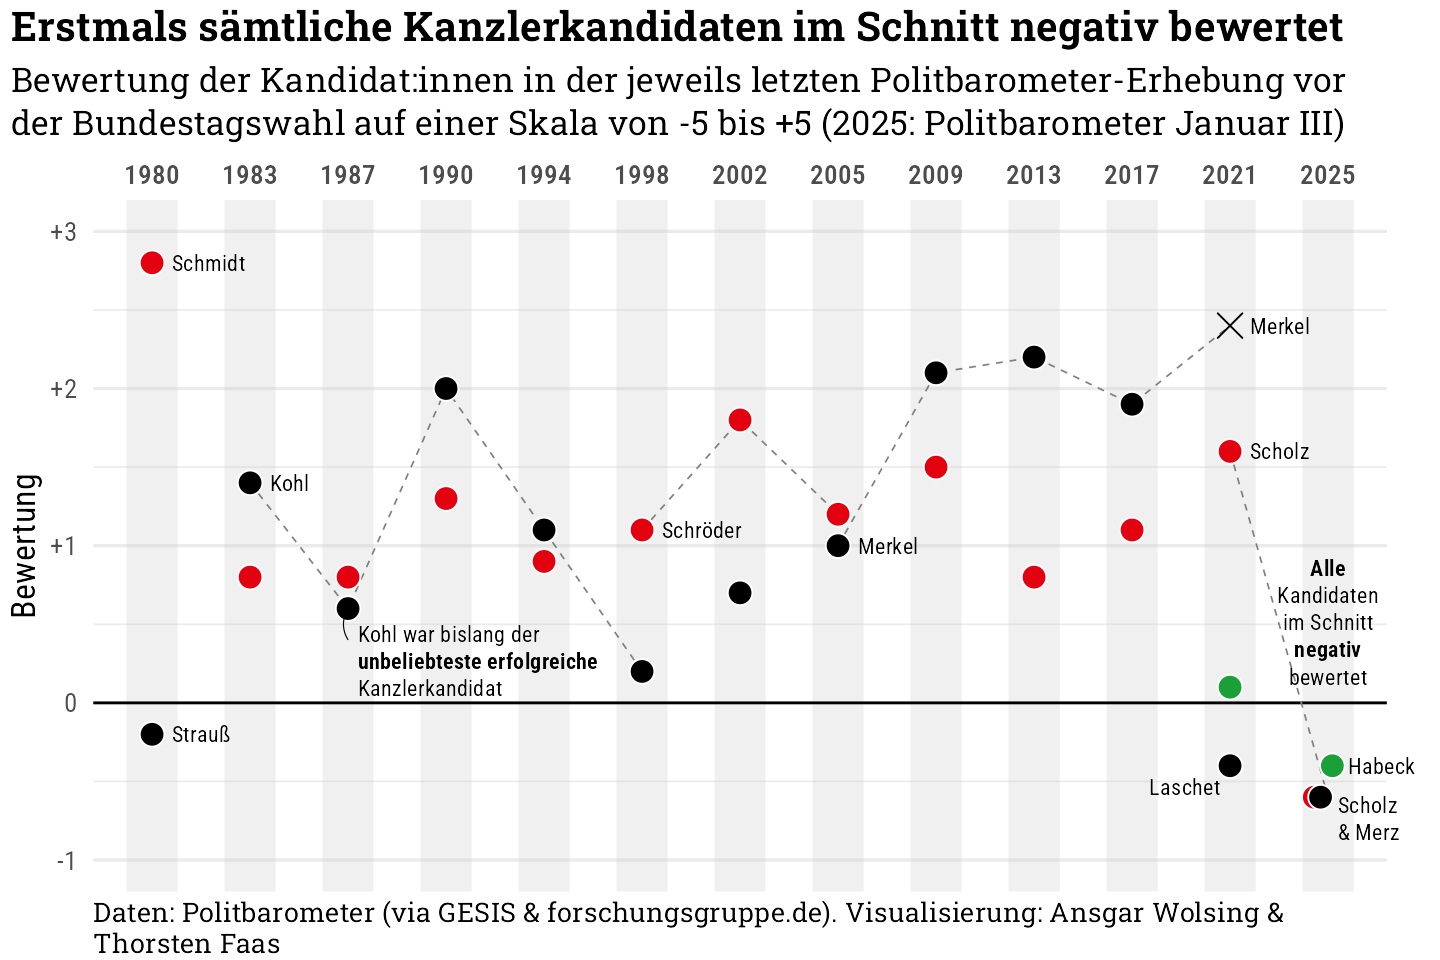
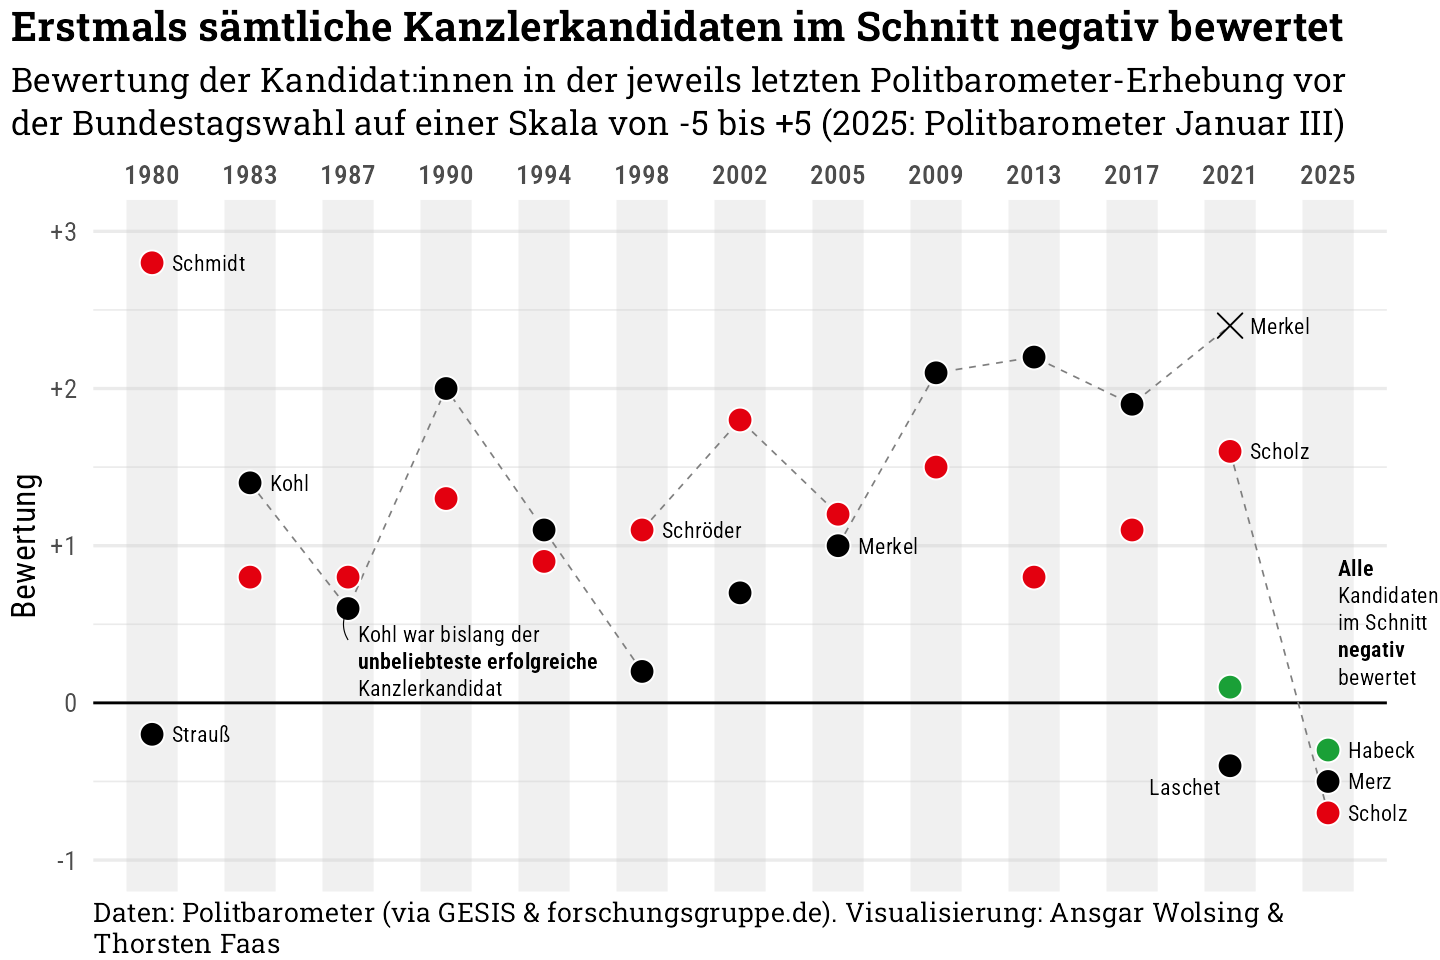
Anpassung Politbarometer Feb I

Changed region(s): [[0.875, 0.5625, 1.0, 0.7188], [0.9062, 0.75, 1.0, 0.875]]

diff --git a/06-tv-duell/05-tv-duell.html b/06-tv-duell/05-tv-duell.html
@@ -174,68 +174,63 @@ pre > code.sourceCode > span > a:first-child::before { text-decoration: underlin
 <span id="cb4-10"><a href="#cb4-10" aria-hidden="true" tabindex="-1"></a>    <span class="at">linetype =</span> <span class="st">"dashed"</span>, <span class="at">linewidth =</span> <span class="fl">0.3</span>, <span class="at">col =</span> <span class="st">"grey50"</span></span>
 <span id="cb4-11"><a href="#cb4-11" aria-hidden="true" tabindex="-1"></a>  ) <span class="sc">+</span></span>
 <span id="cb4-12"><a href="#cb4-12" aria-hidden="true" tabindex="-1"></a>  <span class="fu">geom_point</span>(</span>
-<span id="cb4-13"><a href="#cb4-13" aria-hidden="true" tabindex="-1"></a>    <span class="at">data =</span> <span class="sc">~</span><span class="fu">filter</span>(., wahl <span class="sc">&lt;</span> <span class="dv">2025</span>),</span>
-<span id="cb4-14"><a href="#cb4-14" aria-hidden="true" tabindex="-1"></a>    <span class="fu">aes</span>(</span>
-<span id="cb4-15"><a href="#cb4-15" aria-hidden="true" tabindex="-1"></a>      <span class="at">shape =</span> <span class="fu">ifelse</span>(kandidat <span class="sc">==</span> <span class="st">"Merkel"</span> <span class="sc">&amp;</span> wahl <span class="sc">==</span> <span class="st">"2021"</span>, <span class="dv">4</span>, <span class="dv">21</span>),</span>
-<span id="cb4-16"><a href="#cb4-16" aria-hidden="true" tabindex="-1"></a>      <span class="at">col =</span> <span class="fu">ifelse</span>(kandidat <span class="sc">==</span> <span class="st">"Merkel"</span> <span class="sc">&amp;</span> wahl <span class="sc">==</span> <span class="st">"2021"</span>, <span class="st">"black"</span>, <span class="st">"white"</span>)),</span>
-<span id="cb4-17"><a href="#cb4-17" aria-hidden="true" tabindex="-1"></a>    <span class="at">size =</span> <span class="dv">4</span>) <span class="sc">+</span></span>
-<span id="cb4-18"><a href="#cb4-18" aria-hidden="true" tabindex="-1"></a>  <span class="fu">geom_point</span>(</span>
-<span id="cb4-19"><a href="#cb4-19" aria-hidden="true" tabindex="-1"></a>    <span class="at">data =</span> <span class="sc">~</span><span class="fu">filter</span>(., wahl <span class="sc">==</span> <span class="dv">2025</span>),</span>
-<span id="cb4-20"><a href="#cb4-20" aria-hidden="true" tabindex="-1"></a>    <span class="at">shape =</span> <span class="dv">21</span>, <span class="at">col =</span> <span class="st">"white"</span>,</span>
-<span id="cb4-21"><a href="#cb4-21" aria-hidden="true" tabindex="-1"></a>    <span class="at">size =</span> <span class="dv">4</span>, <span class="at">position =</span> <span class="fu">position_jitter</span>(<span class="at">height =</span> <span class="dv">0</span>, <span class="at">width =</span> <span class="fl">0.3</span>, <span class="at">seed =</span> <span class="dv">1</span>)) <span class="sc">+</span></span>
-<span id="cb4-22"><a href="#cb4-22" aria-hidden="true" tabindex="-1"></a>  <span class="fu">geom_text</span>(</span>
-<span id="cb4-23"><a href="#cb4-23" aria-hidden="true" tabindex="-1"></a>    <span class="at">data =</span> <span class="sc">~</span><span class="fu">filter</span>(.,</span>
-<span id="cb4-24"><a href="#cb4-24" aria-hidden="true" tabindex="-1"></a>                   wahl <span class="sc">%in%</span> <span class="fu">c</span>(<span class="dv">2005</span>, <span class="dv">2021</span>) <span class="sc">&amp;</span> kandidat <span class="sc">==</span> <span class="st">"Merkel"</span> <span class="sc">|</span></span>
-<span id="cb4-25"><a href="#cb4-25" aria-hidden="true" tabindex="-1"></a>                   wahl <span class="sc">==</span> <span class="dv">1980</span> <span class="sc">|</span></span>
-<span id="cb4-26"><a href="#cb4-26" aria-hidden="true" tabindex="-1"></a>                   wahl <span class="sc">==</span> <span class="dv">1983</span> <span class="sc">&amp;</span> kandidat <span class="sc">==</span> <span class="st">"Kohl"</span> <span class="sc">|</span></span>
-<span id="cb4-27"><a href="#cb4-27" aria-hidden="true" tabindex="-1"></a>                   wahl <span class="sc">==</span> <span class="dv">1998</span> <span class="sc">&amp;</span> kandidat <span class="sc">==</span> <span class="st">"Schröder"</span> <span class="sc">|</span></span>
-<span id="cb4-28"><a href="#cb4-28" aria-hidden="true" tabindex="-1"></a>                   wahl <span class="sc">==</span> <span class="dv">2021</span> <span class="sc">&amp;</span> kandidat <span class="sc">==</span> <span class="st">"Scholz"</span> <span class="sc">|</span></span>
-<span id="cb4-29"><a href="#cb4-29" aria-hidden="true" tabindex="-1"></a>                   kandidat <span class="sc">==</span> <span class="st">"Habeck"</span></span>
-<span id="cb4-30"><a href="#cb4-30" aria-hidden="true" tabindex="-1"></a>                   ),</span>
-<span id="cb4-31"><a href="#cb4-31" aria-hidden="true" tabindex="-1"></a>    <span class="fu">aes</span>(<span class="at">label =</span> kandidat),</span>
-<span id="cb4-32"><a href="#cb4-32" aria-hidden="true" tabindex="-1"></a>    <span class="at">family =</span> <span class="st">"Roboto Condensed"</span>, <span class="at">size =</span> <span class="dv">3</span>, <span class="at">hjust =</span> <span class="dv">0</span>, <span class="at">nudge_x =</span> <span class="fl">0.2</span></span>
-<span id="cb4-33"><a href="#cb4-33" aria-hidden="true" tabindex="-1"></a>  ) <span class="sc">+</span></span>
-<span id="cb4-34"><a href="#cb4-34" aria-hidden="true" tabindex="-1"></a>  <span class="fu">annotate</span>(</span>
-<span id="cb4-35"><a href="#cb4-35" aria-hidden="true" tabindex="-1"></a>    <span class="st">"richtext"</span>,</span>
-<span id="cb4-36"><a href="#cb4-36" aria-hidden="true" tabindex="-1"></a>    <span class="at">x =</span> <span class="fu">c</span>(<span class="st">"1987"</span>, <span class="st">"2021"</span>, <span class="st">"2025"</span>, <span class="st">"2025"</span>), </span>
-<span id="cb4-37"><a href="#cb4-37" aria-hidden="true" tabindex="-1"></a>    <span class="at">y =</span> <span class="fu">c</span>(<span class="fl">0.55</span>, <span class="sc">-</span><span class="fl">0.55</span>, <span class="fl">0.5</span>, <span class="sc">-</span><span class="fl">0.75</span>), </span>
-<span id="cb4-38"><a href="#cb4-38" aria-hidden="true" tabindex="-1"></a>    <span class="at">label =</span> <span class="fu">c</span>(</span>
-<span id="cb4-39"><a href="#cb4-39" aria-hidden="true" tabindex="-1"></a>      <span class="st">"Kohl war bislang der&lt;br&gt;**unbeliebteste erfolgreiche**&lt;br&gt;Kanzlerkandidat"</span>,</span>
-<span id="cb4-40"><a href="#cb4-40" aria-hidden="true" tabindex="-1"></a>      <span class="st">"Laschet"</span>,</span>
-<span id="cb4-41"><a href="#cb4-41" aria-hidden="true" tabindex="-1"></a>      <span class="st">"**Alle**&lt;br&gt;Kandidaten&lt;br&gt;im Schnitt&lt;br&gt;**negativ**&lt;br&gt;bewertet"</span>,</span>
-<span id="cb4-42"><a href="#cb4-42" aria-hidden="true" tabindex="-1"></a>      <span class="st">"Scholz&lt;br&gt;&amp; Merz"</span>),</span>
-<span id="cb4-43"><a href="#cb4-43" aria-hidden="true" tabindex="-1"></a>    <span class="at">vjust =</span> <span class="fu">c</span>(<span class="dv">1</span>, <span class="fl">0.5</span>, <span class="fl">0.5</span>, <span class="fl">0.5</span>),</span>
-<span id="cb4-44"><a href="#cb4-44" aria-hidden="true" tabindex="-1"></a>    <span class="at">hjust =</span> <span class="fu">c</span>(<span class="dv">0</span>, <span class="dv">1</span>, <span class="fl">0.5</span>, <span class="dv">0</span>),</span>
-<span id="cb4-45"><a href="#cb4-45" aria-hidden="true" tabindex="-1"></a>    <span class="at">fill =</span> <span class="cn">NA</span>, <span class="at">label.size =</span> <span class="dv">0</span>, <span class="at">family =</span> <span class="st">"Roboto Condensed"</span>, <span class="at">size =</span> <span class="dv">3</span></span>
-<span id="cb4-46"><a href="#cb4-46" aria-hidden="true" tabindex="-1"></a>  ) <span class="sc">+</span></span>
-<span id="cb4-47"><a href="#cb4-47" aria-hidden="true" tabindex="-1"></a>  <span class="fu">annotate</span>(</span>
-<span id="cb4-48"><a href="#cb4-48" aria-hidden="true" tabindex="-1"></a>    GeomCurve,</span>
-<span id="cb4-49"><a href="#cb4-49" aria-hidden="true" tabindex="-1"></a>    <span class="at">x =</span> <span class="fu">c</span>(<span class="st">"1987"</span>),</span>
-<span id="cb4-50"><a href="#cb4-50" aria-hidden="true" tabindex="-1"></a>    <span class="at">xend =</span> <span class="fu">c</span>(<span class="st">"1987"</span>),</span>
-<span id="cb4-51"><a href="#cb4-51" aria-hidden="true" tabindex="-1"></a>    <span class="at">y =</span> <span class="fu">c</span>(<span class="fl">0.4</span>),</span>
-<span id="cb4-52"><a href="#cb4-52" aria-hidden="true" tabindex="-1"></a>    <span class="at">yend =</span> <span class="fu">c</span>(<span class="fl">0.6</span>),</span>
-<span id="cb4-53"><a href="#cb4-53" aria-hidden="true" tabindex="-1"></a>    <span class="at">curvature =</span> <span class="sc">-</span><span class="fl">0.3</span>, <span class="at">linewidth =</span> <span class="fl">0.2</span></span>
-<span id="cb4-54"><a href="#cb4-54" aria-hidden="true" tabindex="-1"></a>  ) <span class="sc">+</span></span>
-<span id="cb4-55"><a href="#cb4-55" aria-hidden="true" tabindex="-1"></a>  <span class="fu">scale_x_discrete</span>(<span class="at">position =</span> <span class="st">"top"</span>) <span class="sc">+</span></span>
-<span id="cb4-56"><a href="#cb4-56" aria-hidden="true" tabindex="-1"></a>  <span class="fu">scale_y_continuous</span>(<span class="at">labels =</span> scales<span class="sc">::</span><span class="fu">label_number</span>(<span class="at">style_positive =</span> <span class="st">"plus"</span>)) <span class="sc">+</span></span>
-<span id="cb4-57"><a href="#cb4-57" aria-hidden="true" tabindex="-1"></a>  <span class="fu">scale_fill_manual</span>(<span class="at">values =</span> party_pal) <span class="sc">+</span></span>
-<span id="cb4-58"><a href="#cb4-58" aria-hidden="true" tabindex="-1"></a>  <span class="fu">scale_shape_identity</span>() <span class="sc">+</span></span>
-<span id="cb4-59"><a href="#cb4-59" aria-hidden="true" tabindex="-1"></a>  <span class="fu">scale_color_identity</span>() <span class="sc">+</span></span>
-<span id="cb4-60"><a href="#cb4-60" aria-hidden="true" tabindex="-1"></a>  <span class="fu">coord_cartesian</span>(<span class="at">ylim =</span> <span class="fu">c</span>(<span class="sc">-</span><span class="dv">1</span>, <span class="dv">3</span>), <span class="at">clip =</span> <span class="st">"off"</span>) <span class="sc">+</span></span>
-<span id="cb4-61"><a href="#cb4-61" aria-hidden="true" tabindex="-1"></a>  <span class="fu">guides</span>(<span class="at">fill =</span> <span class="st">"none"</span>) <span class="sc">+</span></span>
-<span id="cb4-62"><a href="#cb4-62" aria-hidden="true" tabindex="-1"></a>  <span class="fu">labs</span>(</span>
-<span id="cb4-63"><a href="#cb4-63" aria-hidden="true" tabindex="-1"></a>    <span class="at">title =</span> <span class="st">"Erstmals sämtliche Kanzlerkandidaten im Schnitt negativ bewertet"</span>,</span>
-<span id="cb4-64"><a href="#cb4-64" aria-hidden="true" tabindex="-1"></a>    <span class="at">subtitle =</span> <span class="st">"Bewertung der Kandidat:innen in der jeweils letzten Politbarometer-Erhebung vor der Bundestagswahl auf einer Skala von -5 bis +5 (2025: Politbarometer Januar III)"</span>,</span>
-<span id="cb4-65"><a href="#cb4-65" aria-hidden="true" tabindex="-1"></a>    <span class="at">caption =</span> <span class="st">"Daten: Politbarometer (via GESIS &amp; forschungsgruppe.de).</span></span>
-<span id="cb4-66"><a href="#cb4-66" aria-hidden="true" tabindex="-1"></a><span class="st">    Visualisierung: Ansgar Wolsing &amp; Thorsten Faas"</span>,</span>
-<span id="cb4-67"><a href="#cb4-67" aria-hidden="true" tabindex="-1"></a>    <span class="at">x =</span> <span class="cn">NULL</span>, <span class="at">y =</span> <span class="st">"Bewertung"</span></span>
-<span id="cb4-68"><a href="#cb4-68" aria-hidden="true" tabindex="-1"></a>  ) <span class="sc">+</span></span>
-<span id="cb4-69"><a href="#cb4-69" aria-hidden="true" tabindex="-1"></a>  <span class="fu">theme</span>(</span>
-<span id="cb4-70"><a href="#cb4-70" aria-hidden="true" tabindex="-1"></a>    <span class="at">panel.grid.major.x =</span> <span class="fu">element_blank</span>(),</span>
-<span id="cb4-71"><a href="#cb4-71" aria-hidden="true" tabindex="-1"></a>    <span class="at">panel.grid.minor.x =</span> <span class="fu">element_blank</span>(),</span>
-<span id="cb4-72"><a href="#cb4-72" aria-hidden="true" tabindex="-1"></a>    <span class="at">axis.text.x.top =</span> <span class="fu">element_text</span>(<span class="at">family =</span> <span class="st">"Roboto Condensed SemiBold"</span>),</span>
-<span id="cb4-73"><a href="#cb4-73" aria-hidden="true" tabindex="-1"></a>    <span class="at">plot.margin =</span> <span class="fu">margin</span>(<span class="at">t =</span> <span class="dv">4</span>, <span class="at">r =</span> <span class="dv">20</span>, <span class="at">b =</span> <span class="dv">4</span>, <span class="at">l =</span> <span class="dv">4</span>)</span>
-<span id="cb4-74"><a href="#cb4-74" aria-hidden="true" tabindex="-1"></a>  )</span></code><button title="Copy to Clipboard" class="code-copy-button"><i class="bi"></i></button></pre></div>
+<span id="cb4-13"><a href="#cb4-13" aria-hidden="true" tabindex="-1"></a>    <span class="fu">aes</span>(</span>
+<span id="cb4-14"><a href="#cb4-14" aria-hidden="true" tabindex="-1"></a>      <span class="at">shape =</span> <span class="fu">ifelse</span>(kandidat <span class="sc">==</span> <span class="st">"Merkel"</span> <span class="sc">&amp;</span> wahl <span class="sc">==</span> <span class="st">"2021"</span>, <span class="dv">4</span>, <span class="dv">21</span>),</span>
+<span id="cb4-15"><a href="#cb4-15" aria-hidden="true" tabindex="-1"></a>      <span class="at">col =</span> <span class="fu">ifelse</span>(kandidat <span class="sc">==</span> <span class="st">"Merkel"</span> <span class="sc">&amp;</span> wahl <span class="sc">==</span> <span class="st">"2021"</span>, <span class="st">"black"</span>, <span class="st">"white"</span>)),</span>
+<span id="cb4-16"><a href="#cb4-16" aria-hidden="true" tabindex="-1"></a>    <span class="at">size =</span> <span class="dv">4</span>) <span class="sc">+</span></span>
+<span id="cb4-17"><a href="#cb4-17" aria-hidden="true" tabindex="-1"></a>  <span class="fu">geom_text</span>(</span>
+<span id="cb4-18"><a href="#cb4-18" aria-hidden="true" tabindex="-1"></a>    <span class="at">data =</span> <span class="sc">~</span><span class="fu">filter</span>(.,</span>
+<span id="cb4-19"><a href="#cb4-19" aria-hidden="true" tabindex="-1"></a>                   wahl <span class="sc">%in%</span> <span class="fu">c</span>(<span class="dv">2005</span>, <span class="dv">2021</span>) <span class="sc">&amp;</span> kandidat <span class="sc">==</span> <span class="st">"Merkel"</span> <span class="sc">|</span></span>
+<span id="cb4-20"><a href="#cb4-20" aria-hidden="true" tabindex="-1"></a>                   wahl <span class="sc">==</span> <span class="dv">1980</span> <span class="sc">|</span></span>
+<span id="cb4-21"><a href="#cb4-21" aria-hidden="true" tabindex="-1"></a>                   wahl <span class="sc">==</span> <span class="dv">1983</span> <span class="sc">&amp;</span> kandidat <span class="sc">==</span> <span class="st">"Kohl"</span> <span class="sc">|</span></span>
+<span id="cb4-22"><a href="#cb4-22" aria-hidden="true" tabindex="-1"></a>                   wahl <span class="sc">==</span> <span class="dv">1998</span> <span class="sc">&amp;</span> kandidat <span class="sc">==</span> <span class="st">"Schröder"</span> <span class="sc">|</span></span>
+<span id="cb4-23"><a href="#cb4-23" aria-hidden="true" tabindex="-1"></a>                   kandidat <span class="sc">==</span> <span class="st">"Scholz"</span> <span class="sc">|</span></span>
+<span id="cb4-24"><a href="#cb4-24" aria-hidden="true" tabindex="-1"></a>                   kandidat <span class="sc">==</span> <span class="st">"Habeck"</span> <span class="sc">|</span></span>
+<span id="cb4-25"><a href="#cb4-25" aria-hidden="true" tabindex="-1"></a>                   kandidat <span class="sc">==</span> <span class="st">"Merz"</span></span>
+<span id="cb4-26"><a href="#cb4-26" aria-hidden="true" tabindex="-1"></a>                   ),</span>
+<span id="cb4-27"><a href="#cb4-27" aria-hidden="true" tabindex="-1"></a>    <span class="fu">aes</span>(<span class="at">label =</span> kandidat),</span>
+<span id="cb4-28"><a href="#cb4-28" aria-hidden="true" tabindex="-1"></a>    <span class="at">family =</span> <span class="st">"Roboto Condensed"</span>, <span class="at">size =</span> <span class="dv">3</span>, <span class="at">hjust =</span> <span class="dv">0</span>, <span class="at">nudge_x =</span> <span class="fl">0.2</span></span>
+<span id="cb4-29"><a href="#cb4-29" aria-hidden="true" tabindex="-1"></a>  ) <span class="sc">+</span></span>
+<span id="cb4-30"><a href="#cb4-30" aria-hidden="true" tabindex="-1"></a>  <span class="fu">annotate</span>(</span>
+<span id="cb4-31"><a href="#cb4-31" aria-hidden="true" tabindex="-1"></a>    <span class="st">"richtext"</span>,</span>
+<span id="cb4-32"><a href="#cb4-32" aria-hidden="true" tabindex="-1"></a>    <span class="at">x =</span> <span class="fu">c</span>(<span class="st">"1987"</span>, <span class="st">"2021"</span>, <span class="st">"2025"</span>), </span>
+<span id="cb4-33"><a href="#cb4-33" aria-hidden="true" tabindex="-1"></a>    <span class="at">y =</span> <span class="fu">c</span>(<span class="fl">0.55</span>, <span class="sc">-</span><span class="fl">0.55</span>, <span class="fl">0.5</span>), </span>
+<span id="cb4-34"><a href="#cb4-34" aria-hidden="true" tabindex="-1"></a>    <span class="at">label =</span> <span class="fu">c</span>(</span>
+<span id="cb4-35"><a href="#cb4-35" aria-hidden="true" tabindex="-1"></a>      <span class="st">"Kohl war bislang der&lt;br&gt;**unbeliebteste erfolgreiche**&lt;br&gt;Kanzlerkandidat"</span>,</span>
+<span id="cb4-36"><a href="#cb4-36" aria-hidden="true" tabindex="-1"></a>      <span class="st">"Laschet"</span>,</span>
+<span id="cb4-37"><a href="#cb4-37" aria-hidden="true" tabindex="-1"></a>      <span class="st">"**Alle**&lt;br&gt;Kandidaten&lt;br&gt;im Schnitt&lt;br&gt;**negativ**&lt;br&gt;bewertet"</span>),</span>
+<span id="cb4-38"><a href="#cb4-38" aria-hidden="true" tabindex="-1"></a>    <span class="at">vjust =</span> <span class="fu">c</span>(<span class="dv">1</span>, <span class="fl">0.5</span>, <span class="fl">0.5</span>),</span>
+<span id="cb4-39"><a href="#cb4-39" aria-hidden="true" tabindex="-1"></a>    <span class="at">hjust =</span> <span class="fu">c</span>(<span class="dv">0</span>, <span class="dv">1</span>, <span class="dv">0</span>),</span>
+<span id="cb4-40"><a href="#cb4-40" aria-hidden="true" tabindex="-1"></a>    <span class="at">fill =</span> <span class="cn">NA</span>, <span class="at">label.size =</span> <span class="dv">0</span>, <span class="at">family =</span> <span class="st">"Roboto Condensed"</span>, <span class="at">size =</span> <span class="dv">3</span></span>
+<span id="cb4-41"><a href="#cb4-41" aria-hidden="true" tabindex="-1"></a>  ) <span class="sc">+</span></span>
+<span id="cb4-42"><a href="#cb4-42" aria-hidden="true" tabindex="-1"></a>  <span class="fu">annotate</span>(</span>
+<span id="cb4-43"><a href="#cb4-43" aria-hidden="true" tabindex="-1"></a>    GeomCurve,</span>
+<span id="cb4-44"><a href="#cb4-44" aria-hidden="true" tabindex="-1"></a>    <span class="at">x =</span> <span class="fu">c</span>(<span class="st">"1987"</span>),</span>
+<span id="cb4-45"><a href="#cb4-45" aria-hidden="true" tabindex="-1"></a>    <span class="at">xend =</span> <span class="fu">c</span>(<span class="st">"1987"</span>),</span>
+<span id="cb4-46"><a href="#cb4-46" aria-hidden="true" tabindex="-1"></a>    <span class="at">y =</span> <span class="fu">c</span>(<span class="fl">0.4</span>),</span>
+<span id="cb4-47"><a href="#cb4-47" aria-hidden="true" tabindex="-1"></a>    <span class="at">yend =</span> <span class="fu">c</span>(<span class="fl">0.6</span>),</span>
+<span id="cb4-48"><a href="#cb4-48" aria-hidden="true" tabindex="-1"></a>    <span class="at">curvature =</span> <span class="sc">-</span><span class="fl">0.3</span>, <span class="at">linewidth =</span> <span class="fl">0.2</span></span>
+<span id="cb4-49"><a href="#cb4-49" aria-hidden="true" tabindex="-1"></a>  ) <span class="sc">+</span></span>
+<span id="cb4-50"><a href="#cb4-50" aria-hidden="true" tabindex="-1"></a>  <span class="fu">scale_x_discrete</span>(<span class="at">position =</span> <span class="st">"top"</span>) <span class="sc">+</span></span>
+<span id="cb4-51"><a href="#cb4-51" aria-hidden="true" tabindex="-1"></a>  <span class="fu">scale_y_continuous</span>(<span class="at">labels =</span> scales<span class="sc">::</span><span class="fu">label_number</span>(<span class="at">style_positive =</span> <span class="st">"plus"</span>)) <span class="sc">+</span></span>
+<span id="cb4-52"><a href="#cb4-52" aria-hidden="true" tabindex="-1"></a>  <span class="fu">scale_fill_manual</span>(<span class="at">values =</span> party_pal) <span class="sc">+</span></span>
+<span id="cb4-53"><a href="#cb4-53" aria-hidden="true" tabindex="-1"></a>  <span class="fu">scale_shape_identity</span>() <span class="sc">+</span></span>
+<span id="cb4-54"><a href="#cb4-54" aria-hidden="true" tabindex="-1"></a>  <span class="fu">scale_color_identity</span>() <span class="sc">+</span></span>
+<span id="cb4-55"><a href="#cb4-55" aria-hidden="true" tabindex="-1"></a>  <span class="fu">coord_cartesian</span>(<span class="at">ylim =</span> <span class="fu">c</span>(<span class="sc">-</span><span class="dv">1</span>, <span class="dv">3</span>), <span class="at">clip =</span> <span class="st">"off"</span>) <span class="sc">+</span></span>
+<span id="cb4-56"><a href="#cb4-56" aria-hidden="true" tabindex="-1"></a>  <span class="fu">guides</span>(<span class="at">fill =</span> <span class="st">"none"</span>) <span class="sc">+</span></span>
+<span id="cb4-57"><a href="#cb4-57" aria-hidden="true" tabindex="-1"></a>  <span class="fu">labs</span>(</span>
+<span id="cb4-58"><a href="#cb4-58" aria-hidden="true" tabindex="-1"></a>    <span class="at">title =</span> <span class="st">"Erstmals sämtliche Kanzlerkandidaten im Schnitt negativ bewertet"</span>,</span>
+<span id="cb4-59"><a href="#cb4-59" aria-hidden="true" tabindex="-1"></a>    <span class="at">subtitle =</span> <span class="st">"Bewertung der Kandidat:innen in der jeweils letzten Politbarometer-Erhebung vor der Bundestagswahl auf einer Skala von -5 bis +5 (2025: Politbarometer Januar III)"</span>,</span>
+<span id="cb4-60"><a href="#cb4-60" aria-hidden="true" tabindex="-1"></a>    <span class="at">caption =</span> <span class="st">"Daten: Politbarometer (via GESIS &amp; forschungsgruppe.de).</span></span>
+<span id="cb4-61"><a href="#cb4-61" aria-hidden="true" tabindex="-1"></a><span class="st">    Visualisierung: Ansgar Wolsing &amp; Thorsten Faas"</span>,</span>
+<span id="cb4-62"><a href="#cb4-62" aria-hidden="true" tabindex="-1"></a>    <span class="at">x =</span> <span class="cn">NULL</span>, <span class="at">y =</span> <span class="st">"Bewertung"</span></span>
+<span id="cb4-63"><a href="#cb4-63" aria-hidden="true" tabindex="-1"></a>  ) <span class="sc">+</span></span>
+<span id="cb4-64"><a href="#cb4-64" aria-hidden="true" tabindex="-1"></a>  <span class="fu">theme</span>(</span>
+<span id="cb4-65"><a href="#cb4-65" aria-hidden="true" tabindex="-1"></a>    <span class="at">panel.grid.major.x =</span> <span class="fu">element_blank</span>(),</span>
+<span id="cb4-66"><a href="#cb4-66" aria-hidden="true" tabindex="-1"></a>    <span class="at">panel.grid.minor.x =</span> <span class="fu">element_blank</span>(),</span>
+<span id="cb4-67"><a href="#cb4-67" aria-hidden="true" tabindex="-1"></a>    <span class="at">axis.text.x.top =</span> <span class="fu">element_text</span>(<span class="at">family =</span> <span class="st">"Roboto Condensed SemiBold"</span>),</span>
+<span id="cb4-68"><a href="#cb4-68" aria-hidden="true" tabindex="-1"></a>    <span class="at">plot.margin =</span> <span class="fu">margin</span>(<span class="at">t =</span> <span class="dv">4</span>, <span class="at">r =</span> <span class="dv">20</span>, <span class="at">b =</span> <span class="dv">4</span>, <span class="at">l =</span> <span class="dv">4</span>)</span>
+<span id="cb4-69"><a href="#cb4-69" aria-hidden="true" tabindex="-1"></a>  )</span></code><button title="Copy to Clipboard" class="code-copy-button"><i class="bi"></i></button></pre></div>
 </details>
 <div class="cell-output-display">
 <div>
